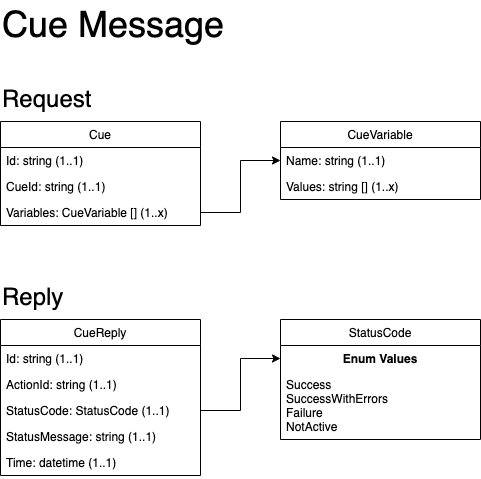
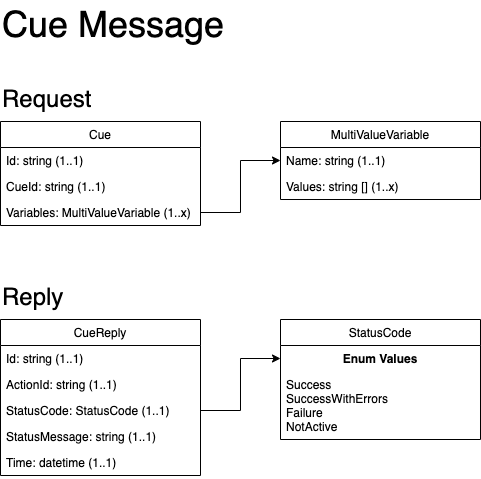
Added documentation for RouterDbRecord and SignalDbRecord.

Changed region(s): [[0.1247, 0.4384, 0.4054, 0.4676], [0.6861, 0.263, 0.9044, 0.2923]]

diff --git a/docs/classes/database/signal-db.md b/docs/classes/database/signal-db.md
@@ -1,9 +1,13 @@
-## xxxxxxxx Database Record
+## Signal Database Record
 
-Description
+The Signal Database Record is created by Syntinel to track all actions and statuses associated with an individual [Signal](../requests/signal-request.md) message received from a reporter.
 
 ### Class Diagram
-![xxxxxxxx Database Record](../../resources/draw.io/ClassDiagram-xxxxxxxDbRecord.png)
+![Signal Database Record](../../resources/draw.io/ClassDiagram-SignalDbRecord.png)
+
+Referenced Classes: 
+
+- [Signal Message](../requests/signal-request.md#class-diagram)
 
 ### JSON Schmea
 ````json
@@ -12,37 +16,192 @@ Description
     "type": "object",
     "required": [ "_id" ],
     "properties": {
-        "_id": { "type": "string" }
+        "_id": { "type": "string" },
+        "_isActive": { "type": "boolean" },
+        "_status": { "type": "string", "pattern": "^New|Sent Received|SentToResolver|Completed|Error|Invalid$" },
+        "_time": { "type": "string", "format": "date" },
+        "signal": { "type": "object"                   
+             ** Insert Signal Request Json Schema Here **     
+        },
+        "actions": { "type": "string" },
+        "_trace": { "type": "object",
+          "additionalProperties": {
+             "type": "object",
+             "properties": {
+               "cueId": {"type": "string" },
+               "variables": {"type": "object",
+                 "required": [ "name", "values" ],
+                 "properties": {
+                   "name": { "type": "string" },
+                   "values": { 
+                     "type": "array",
+                     "items": { "type": "string" }
+                   }
+                 }
+               },
+               "isValid": {"type": "boolean" },
+               "status": {"type": "string", "pattern": "^New|Sent Received|SentToResolver|Completed|Error|Invalid$" },
+               "statusMessage": {"type": "string" },
+               "time": {"type": "string", "format": "date"}
+             }
+          }
+        }
     }
 }
+
 ````
 
 ### Field Descriptions
 
-#### **Status**
+#### **SignalDbRecord**
 |Field|Type|Required|Description
 |-----|----|--------|-----------
-|id|String|Yes|Blah Blah Blah.
+|_id|String|Yes|The unique identifier generated for the original signal message sent from the reporter.
+|_isActive|Boolean|Yes|Inidicates whether or not a signal message can still have actions performed against it.
+|_status|choice of Status|Yes|The current status of the entire signal message.
+|_time|Datetime|Yes|The time the message was originally received.
+|signal|[Signal](../requests/signal-request.md#signal)|Yes|The original signal message sent from the reporter.
+|actions|Dictionary of [ActionType](#actiontype)|No|Actions that have been taken against the signal message by one or more subscribers.
+|_trace|Dictionary of Json Object|No|This is the "log" for all actions, updates, results associated with signal message.
+
+#### **ActionType**
+|Field|Type|Required|Description
+|-----|----|--------|-----------
+|cueId|String|Yes|The unique identifier generated for the action received from the subscriber.
+|variables|List of [MultiValueVariable](#multivaluevariable)|The variables received from the Cue message (action specified).
+
+
+#### **MultiValueVariable**
+|Field|Type|Required|Description
+|-----|----|--------|-----------
+|name|String|Yes|The variable name
+|values|List of String|No|The value(s) associated with the variable. 
+
 
 ### Examples
 
-#### **Sample xxxxxxxx Database Record**
+#### **Sample Signal Database Record**
 
 Description
 
 ````json
-{	
-	"id": "0X3N9WBKR", 
-	"actionId": "0X3NB1MZS", 
-	"newStatus": "Error", 
-	"closeSignal": true, 
-	"isValidReply": true,
-    "sendToChannels": true,
-    "message": "The Server Is Already Terminated.",
-    "data": {
-        "instance": "i-8675309JENNY",
-        "something": "else",
-        "more": ["data", "can", "go", "here", "too"]
+{
+  "_id": "0X86F3V1P",
+  "_isActive": true,
+  "_status": "Completed",
+  "_time": "2020-10-07T22:28:15.8693223Z",
+  "_trace": {
+    "0X86F5LKV_SignalReply": {
+      "id": "0X86F3V1P",
+      "results": [
+        {
+          "channelId": "DevSlackChannel",
+          "channelType": "teams",
+          "code": "Success",
+          "message": "Success"
+        },
+        {
+          "channelId": "DevTeamsChannel",
+          "channelType": "slack",
+          "code": "Success",
+          "message": "Success"
+        }
+      ],
+      "statusCode": "Success",
+      "time": "2020-10-07T22:28:08.4267512Z"
+    },
+    "0X86GPKOM_Status": {
+      "actionId": "0X86G2NAS",
+      "closeSignal": false,
+      "data": {
+        "action": [
+          "hibernate"
+        ]
+      },
+      "id": "0X86F3V1P",
+      "isValidReply": true,
+      "message": "action : hibernate",
+      "newStatus": "Completed",
+      "sendToChannels": true
     }
-}
-````
+  },
+  "actions": {
+    "0X86G2NAS": {
+      "cueId": "ec2",
+      "isValid": true,
+      "status": "Completed",
+      "time": "2020-10-07T22:29:03.4970258Z",
+      "variables": [
+        {
+          "name": "action",
+          "values": [
+            "hibernate"
+          ]
+        }
+      ]
+    }
+  },
+  "signal": {
+    "cues": {
+      "ec2": {
+        "actions": [
+          {
+            "defaultValue": "stop",
+            "description": "Choose action to take against EC2 instances.",
+            "id": "action",
+            "name": "Perform Action",
+            "type": "choice",
+            "values": {
+              "hibernate": "Stop and Hibernate Instance",
+              "reboot": "Reboot Instance",
+              "stop": "Stop Instance",
+              "terminate": "Terminate Instance"
+            }
+          },
+          {
+            "defaultValue": "ignore",
+            "description": "Ignore this alert.",
+            "id": null,
+            "name": "Ignore Alert",
+            "type": "button",
+            "values": null
+          },
+          {
+            "defaultValue": "disable",
+            "description": "Disable this alert.",
+            "id": null,
+            "name": "Disable Alert",
+            "type": "button",
+            "values": null
+          }
+        ],
+        "arguments": null,
+        "defaultAction": "Perform Action",
+        "description": "Server [i-888888888888] has been running for 7 days.  Would you like to take action against it?",
+        "inputs": [
+
+        ],
+        "name": "EC2 Usage",
+        "resolver": {
+          "config": {
+            "instances": [
+              "i-888888888888"
+            ]
+          },
+          "name": "Echo",
+          "notify": true
+        },
+        "template": null
+      }
+    },
+    "defaultCue": null,
+    "defaultCueTimeout": 0,
+    "description": "EC2 Utilization Montior",
+    "includeId": true,
+    "maxReplies": 1,
+    "name": "Utilization",
+    "reporterId": "_default",
+    "routerId": "dev",
+    "routerType": "environment"
+  }
+}````

diff --git a/docs/classes/database/router-db.md b/docs/classes/database/router-db.md
@@ -1,18 +1,22 @@
-## xxxxxxxx Database Record
+## Router Database Record
 
-Description
+Syntinel uses the Router Database record to look up alternative channels (routing) for the message.  It uses the 2 fields from the Signal (routerId and routerType) and if a record is found matching that Id and Type, the channels specified here replace the defaultChannels in the reporter.
 
 ### Class Diagram
-![xxxxxxxx Database Record](../../resources/draw.io/ClassDiagram-xxxxxxxDbRecord.png)
+![Router Database Record](../../resources/draw.io/ClassDiagram-RouterDbRecord.png)
 
 ### JSON Schmea
 ````json
 {
     "$schema": "http://json-schema.org/draft-04/schema#",
     "type": "object",
-    "required": [ "_id" ],
+    "required": [ "_id", "_type" ],
     "properties": {
-        "_id": { "type": "string" }
+        "_id": { "type": "string" },
+        "_type": { "type": "string" },
+        "channels": { "type": "array", 
+            "items": {"type": "string"} 
+        }
     }
 }
 ````
@@ -22,27 +26,34 @@ Description
 #### **Status**
 |Field|Type|Required|Description
 |-----|----|--------|-----------
-|id|String|Yes|Blah Blah Blah.
+|_id|String|Yes|The Id to route the signal by (the signalId field in the [Signal](./signal-db.md) message)
+|_type|String|Yes|A User defined "type" to route the signal by (the signalType field in the [Signal](./signal-db.md) message)
+|channels|List of String|No|A list of Channel Id's to send the Signal message to when it matches the Id and Type provided.
 
 ### Examples
 
-#### **Sample xxxxxxxx Database Record**
+#### **Sample Router Database Records**
 
-Description
+In the records below when the signal message provides the following fields ( {"signalId": "dev", "signalType", "environment}) the defaultChannels in the [reporter](./reporter.md) record will be overwritten with the "Dev" channels below.
 
 ````json
-{	
-	"id": "0X3N9WBKR", 
-	"actionId": "0X3NB1MZS", 
-	"newStatus": "Error", 
-	"closeSignal": true, 
-	"isValidReply": true,
-    "sendToChannels": true,
-    "message": "The Server Is Already Terminated.",
-    "data": {
-        "instance": "i-8675309JENNY",
-        "something": "else",
-        "more": ["data", "can", "go", "here", "too"]
-    }
+{
+  "_id": "dev",
+  "_type": "environment",
+  "channels": [
+    "DevSlackChannel",
+    "DevTeamsChannel"
+  ]
+}
+````
+
+````json
+{
+  "_id": "test",
+  "_type": "environment",
+  "channels": [
+    "TestSlackChannel",
+    "TestTeamsChannel"
+  ]
 }
 ````

diff --git a/docs/classes/requests/status-request.md b/docs/classes/requests/status-request.md
@@ -14,7 +14,7 @@ A Status message is sent by resolvers to update Syntinel with the status of the 
     "properties": {
         "id": { "type": "string" },
         "actionId": { "type": "string" },
-        "newStatus": { "type": "string" },
+        "newStatus": { "type": "string", "pattern": "^New|Sent Received|SentToResolver|Completed|Error|Invalid$" },
         "closeSignal": { "type": "boolean" },
         "isValidReply": { "type": "boolean" },
         "sendToChannels": { "type": "boolean" },
